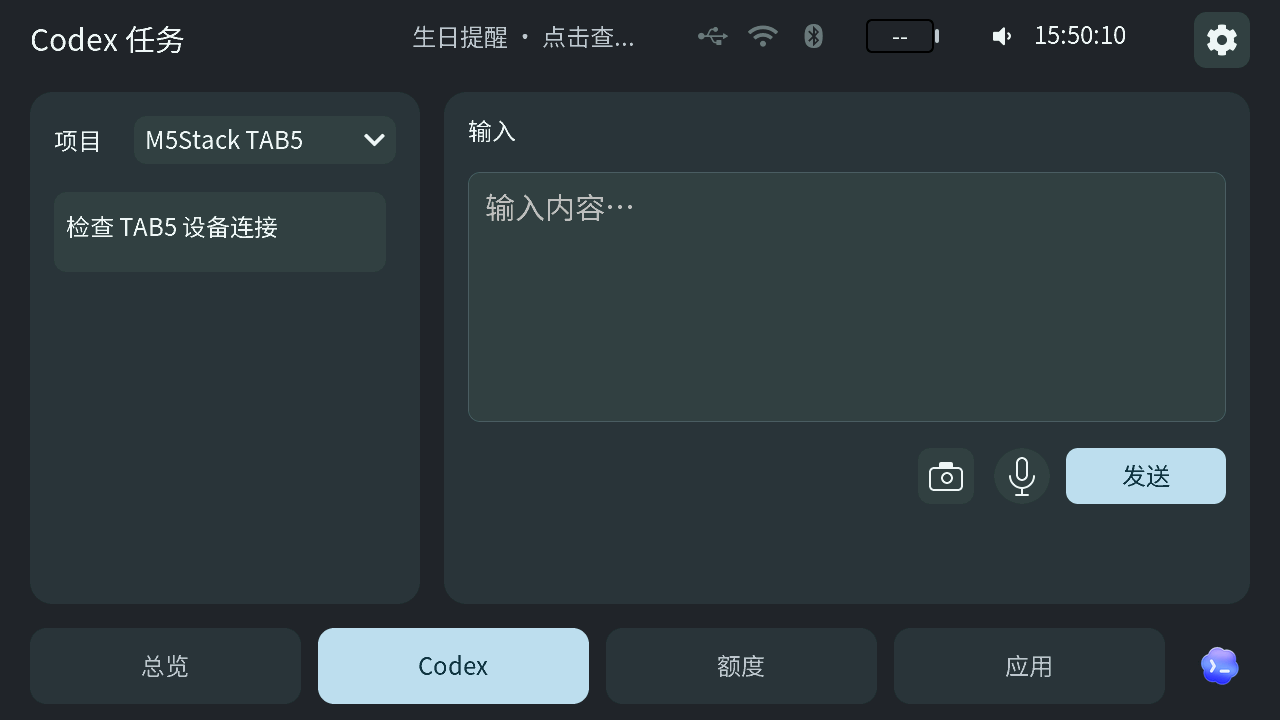
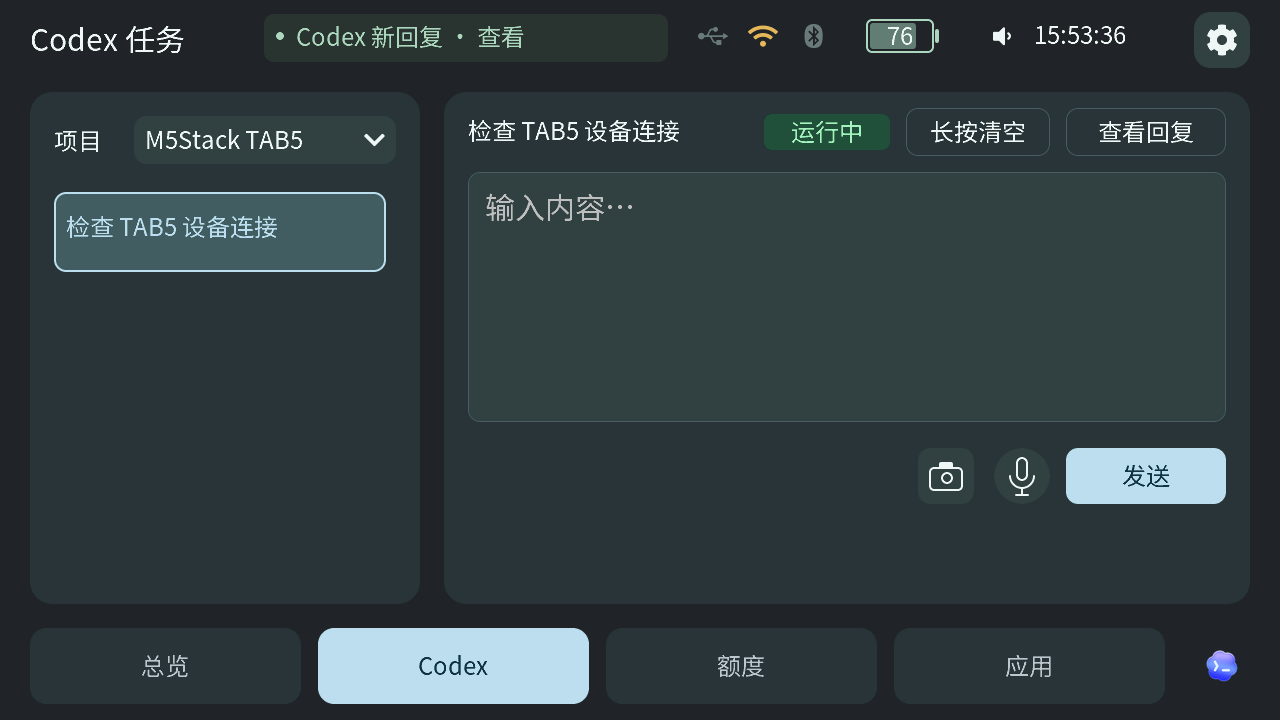
docs: complete feature guide and refresh screenshots

diff --git a/scripts/check_public_content.py b/scripts/check_public_content.py
@@ -26,6 +26,9 @@ REVIEWED_DOC_NAMES = frozenset({
 
     'tab5-wifi-unlock-candidate.png',
     'tab5-firmware-notes-234.png',
+    'tab5-firmware-notes-282.png',
+    'tab5-music-controls-282.png',
+    'windows-runtime-monitor-0612.png',
     'tab5-firmware-notes-234-scrolled.png',
     'tab5-music-idle.png',
     'tab5-computer-control.png',

diff --git a/README.en.md b/README.en.md
@@ -64,12 +64,16 @@ https://github.com/user-attachments/assets/219d758f-e3f9-4bf8-be64-641d01834922
 <table>
 <thead><tr><th width="160" nowrap="nowrap">Feature</th><th>Details</th></tr></thead>
 <tbody>
-<tr><td nowrap="nowrap"><strong>Task status</strong></td><td>Claude / Codex working, idle and waiting states; completion alerts.</td></tr>
-<tr><td nowrap="nowrap"><strong>Account quotas</strong></td><td>Usage, API balances, resets and Codex credits; history on the computer.</td></tr>
-<tr><td nowrap="nowrap"><strong>Daily information</strong></td><td>Weather, clocks, stocks, computer load and media playback.<br>Dedicated NetEase and QQ Music adapters; Windows media sessions for Soda Music, Apple Music and other clients.<br>Chrome/Edge can also supply website playback. See <a href="docs/MEDIA-PLAYERS.md">support and validation limits</a>.</td></tr>
-<tr><td nowrap="nowrap"><strong>PC controls</strong></td><td>Adjust volume, mute, lock or unlock from TAB5; follow lock state.<br>Open up to four local apps/folders with icons. Wi-Fi unlock automatically installs/imports its optional component.</td></tr>
-<tr><td nowrap="nowrap"><strong>Display settings</strong></td><td>Fixed page, cycle or smart switching; choose pages, order, interval and pets.</td></tr>
-<tr><td nowrap="nowrap"><strong>Device management</strong></td><td>Windows Device Center: accounts, data, devices; check, download and verify updates. <a href="docs/UPDATES.md">Guide</a><br><a href="docs/RUNTIME-MONITOR.md">Runtime monitoring</a> shows connection and system pressure, causes and suggestions.</td></tr>
+<tr><td nowrap="nowrap"><strong>AI task status</strong></td><td>Both displays show Claude / Codex working, idle and waiting states, with completion alerts.</td></tr>
+<tr><td nowrap="nowrap"><strong>Model quotas</strong></td><td>Account usage, API balances, reset times and Codex reset cards; quota history on the computer.<br>Available fields depend on the provider and account authorization.</td></tr>
+<tr><td nowrap="nowrap"><strong>Codex sessions</strong></td><td>On TAB5, select a session, read replies and long histories, and edit a draft.<br>Use voice input, add camera attachments and hold to clear text; review and confirm before sending.</td></tr>
+<tr><td nowrap="nowrap"><strong>Agenda &amp; calendar</strong></td><td>TAB5 offers tasks, recurring and due reminders, a monthly calendar, lunar dates, solar terms and birthdays.</td></tr>
+<tr><td nowrap="nowrap"><strong>Weather &amp; stocks</strong></td><td>Both displays show weather and watchlists; TAB5 also shows hourly and seven-day forecasts.</td></tr>
+<tr><td nowrap="nowrap"><strong>Music &amp; PC status</strong></td><td>View media details, artwork and computer CPU, memory and network activity.<br>TAB5 can control supported players; availability varies by Windows, Mac and player. <a href="docs/MEDIA-PLAYERS.md">Media support</a></td></tr>
+<tr><td nowrap="nowrap"><strong>Computer control</strong></td><td>TAB5 can adjust volume, mute, lock, unlock and open configured shortcuts.<br>Unlock setup and permissions differ on Windows and Mac. <a href="docs/COMPUTER-CONTROL.md">Guide</a></td></tr>
+<tr><td nowrap="nowrap"><strong>Clocks &amp; screensavers</strong></td><td>Both devices show a clock; TAB5 adds clock faces, countdowns, annual dots and a floral calendar.<br>Optional painting and calligraphy collections support landscape and portrait viewing.</td></tr>
+<tr><td nowrap="nowrap"><strong>Pets &amp; display</strong></td><td>Show pets with AI activity; choose a fixed page, cycling or smart following, with page order and interval.</td></tr>
+<tr><td nowrap="nowrap"><strong>Devices &amp; monitoring</strong></td><td>Manage connections and independent updates: ESP8266 uses USB / Wi-Fi; TAB5 also supports Bluetooth.<br>Windows runtime monitoring and TAB5 diagnostics show status, causes and advice. <a href="docs/RUNTIME-MONITOR.md">Runtime monitor</a></td></tr>
 </tbody>
 </table>
 

diff --git a/README.md b/README.md
@@ -64,12 +64,16 @@ https://github.com/user-attachments/assets/219d758f-e3f9-4bf8-be64-641d01834922
 <table>
 <thead><tr><th width="120" nowrap="nowrap">功能</th><th>说明</th></tr></thead>
 <tbody>
-<tr><td nowrap="nowrap"><strong>任务状态</strong></td><td>Claude / Codex 工作、空闲、待输入状态及完成提醒。</td></tr>
-<tr><td nowrap="nowrap"><strong>账户额度</strong></td><td>账户用量、API 余额、重置时间与 Codex 重置卡；电脑端提供额度历史。</td></tr>
-<tr><td nowrap="nowrap"><strong>日常信息</strong></td><td>天气、时钟、股票、电脑负载与媒体播放信息。<br>网易云音乐与 QQ 音乐有专门适配；汽水音乐、Apple Music 等客户端通过 Windows 媒体会话接入。<br>Chrome／Edge 可补充网页播放信息，实际兼容范围见<a href="docs/MEDIA-PLAYERS.md">媒体支持说明</a>。</td></tr>
-<tr><td nowrap="nowrap"><strong>电脑控制</strong></td><td>在 TAB5 调节音量、静音、锁屏或一键解锁，查看锁定状态。<br>点选最多四个带图标的程序或文件夹；Wi-Fi 解锁组件自动安装／接入。</td></tr>
-<tr><td nowrap="nowrap"><strong>显示设置</strong></td><td>固定页、轮播或智能跟随；可选页面、顺序、间隔与桌宠动画。</td></tr>
-<tr><td nowrap="nowrap"><strong>设备管理</strong></td><td>Windows 设备中心配置账号、数据与设备；统一查看更新并下载校验。<a href="docs/UPDATES.md">更新说明</a><br><a href="docs/RUNTIME-MONITOR.md">运行监控</a>提供连接与系统压力的状态、原因和建议。</td></tr>
+<tr><td nowrap="nowrap"><strong>AI 任务状态</strong></td><td>两种屏幕均可查看 Claude / Codex 工作、空闲、待输入状态及完成提醒。</td></tr>
+<tr><td nowrap="nowrap"><strong>模型额度</strong></td><td>查看账户用量、API 余额、重置时间与 Codex 重置卡；电脑端提供额度历史。<br>实际字段取决于厂商接口与账号授权。</td></tr>
+<tr><td nowrap="nowrap"><strong>Codex 会话</strong></td><td>TAB5 可选择会话、阅读回复与长会话分页，编辑文字草稿。<br>支持语音输入、拍照附件和长按清空；检查后由用户确认发送。</td></tr>
+<tr><td nowrap="nowrap"><strong>日程与日历</strong></td><td>TAB5 提供日程待办、重复与到期提醒；查看月历、农历、节气和生日。</td></tr>
+<tr><td nowrap="nowrap"><strong>天气与行情</strong></td><td>两种屏幕展示天气和自选股票；TAB5 还可查看小时及七日天气预报。</td></tr>
+<tr><td nowrap="nowrap"><strong>音乐与电脑状态</strong></td><td>查看播放信息、封面以及电脑 CPU、内存和网络状态。<br>TAB5 音乐页可按播放器能力控制播放；支持范围因 Windows、Mac 和播放器而异。<a href="docs/MEDIA-PLAYERS.md">媒体支持说明</a></td></tr>
+<tr><td nowrap="nowrap"><strong>电脑控制</strong></td><td>TAB5 可调节音量、静音、锁屏、解锁及打开快捷项。<br>Windows 与 Mac 的解锁配置和权限要求不同。<a href="docs/COMPUTER-CONTROL.md">使用说明</a></td></tr>
+<tr><td nowrap="nowrap"><strong>时钟与屏保</strong></td><td>两种屏幕均有时钟；TAB5 提供多种表盘、倒计时、全年点阵及十二月历。<br>可选名画、书法图库支持横竖屏欣赏。</td></tr>
+<tr><td nowrap="nowrap"><strong>桌宠与显示</strong></td><td>按 AI 状态显示桌宠；选择固定页面、轮播或智能跟随，配置页面、顺序与间隔。</td></tr>
+<tr><td nowrap="nowrap"><strong>设备与监控</strong></td><td>管理设备、连接与独立更新：小屏支持 USB / Wi-Fi，TAB5 还支持蓝牙。<br>Windows 运行监控及 TAB5 诊断页提供状态、原因与建议。<a href="docs/RUNTIME-MONITOR.md">运行监控</a></td></tr>
 </tbody>
 </table>
 

diff --git a/docs/SCREENSHOTS.md b/docs/SCREENSHOTS.md
@@ -1,5 +1,15 @@
 # 当前截图来源 / Screenshot provenance
 
+2026-10-27 图鉴核对：新增 `tab5-music-controls-282.png`、`tab5-firmware-notes-282.png` 与 `windows-runtime-monitor-0612.png`。前两图来自正式 .282 对应源码的 LVGL 隔离预览：音乐使用虚构曲名和无封面状态，显示真实播放控件；升级图使用正式 .282 sidecar，“当前 .21”是固定夹具。运行监控图来自 Windows 0.6.12 Release 程序的 WinForms 隔离自检，PAC 异常及数值均为演示数据，不是本机监控记录。图中不含真实账户、曲目或设备状态；未修改设备、桥接设置或图库。原图保留，新增文件的精确 SHA-256 见 `licenses/materials.json`。
+
+2026-10-28：对照 .282 原生预览刷新网络连接、屏幕声音、内容轮播、日期倒计时设置、十网络与三种电脑控制图。网络名、电脑名称、连接状态、时间与音量为固定演示数据；“已保存到 TAB5”是预览夹具的界面反馈，不表示对实体设备执行了保存。原截图的历史版本仍见 Git 记录。 / Refreshed .282 network, display, rotation, countdown, saved-network and computer-control views from native fixtures. All names, states and the save feedback are synthetic; no hardware settings were changed.
+
+2026-10-28：Codex 任务、活动、分页回复、录音、识别结果和照片草稿截图也已对照 .282 原生预览更新，照片缩略图为测试色块；任务主图只在隔离夹具中清除了测试用语音错误提示，其他界面由原生控件绘制。项目、会话和语音文字均为演示数据。 / Refreshed Codex task, activity, reply pagination and voice fixtures from .282. The task capture clears a simulated error notice for the documentation sample; all other UI is native and data is synthetic.
+
+2026-10-28：托盘菜单与 TAB5 设备中心图使用 Windows 0.6.12 源码的 DocCapture 隔离夹具重新捕获，显示当前“设备预览”入口、电脑控制等操作；名称、版本和在线状态为夹具，不是用户设备配置。 / The tray menu and TAB5 Device Center were captured with the Windows 0.6.12 DocCapture fixture, with synthetic names, version and connection state and the current device-preview entry.
+
+October 27 gallery audit: added isolated native .282 TAB5 music controls and actual .282 release-notes fixtures, plus a Windows 0.6.12 runtime-monitor fixture. Song metadata, missing artwork, PAC fault and readings are synthetic; .21 is a fixture installed-version label. These are not device photos, live monitoring or hardware acceptance. The existing images remain; new file hashes are recorded in `licenses/materials.json`.
+
 2026-10-27：账号数据截图更新为 Windows 0.6.12 候选的紧凑按钮原生隔离界面，使用演示窗口，不含真实账户；图鉴对桥接窗口限制显示尺寸，原图可点击查看。 / Updated the account-data capture from the Windows 0.6.12 compact-button native fixture; documentation images link to their full-size originals.
 
 2026-10-27：更新 TAB5 0.2.282-ui 诊断与检测详情截图，来自该版本原生 LVGL 隔离夹具，数值为演示数据，非硬件照片；设备实际界面另经用户确认。 / Updated .282 diagnostics and details from native isolated LVGL fixtures; the device was separately confirmed by the user.
